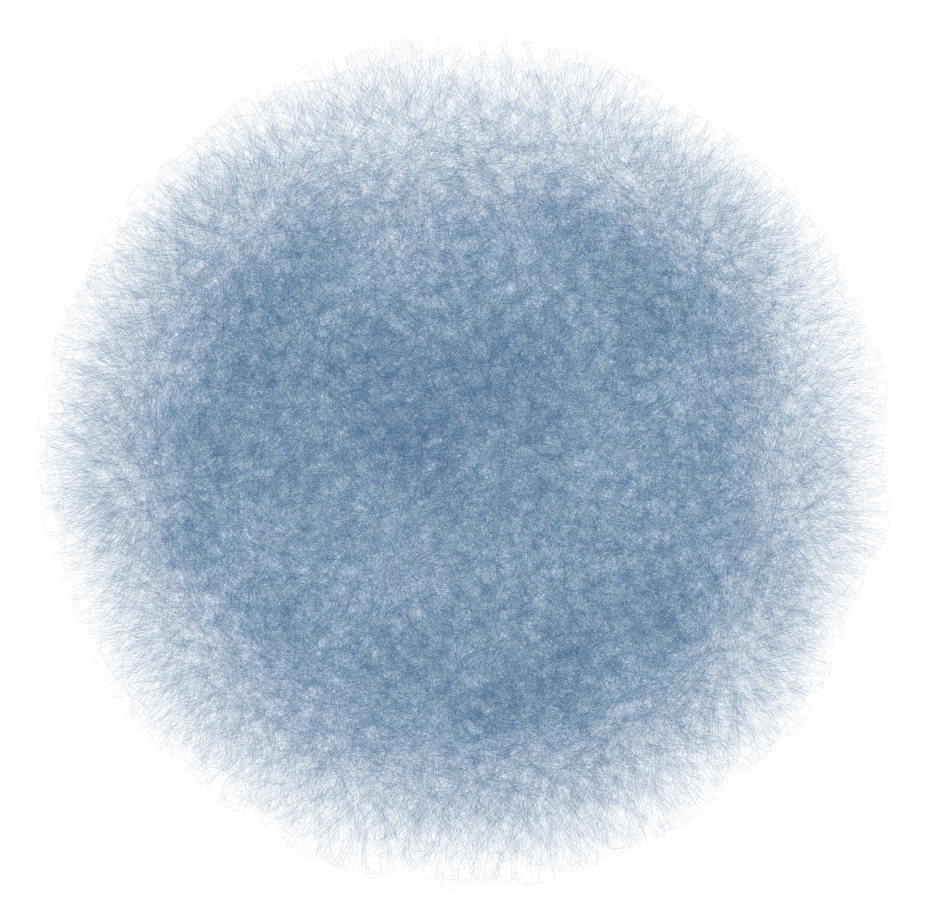
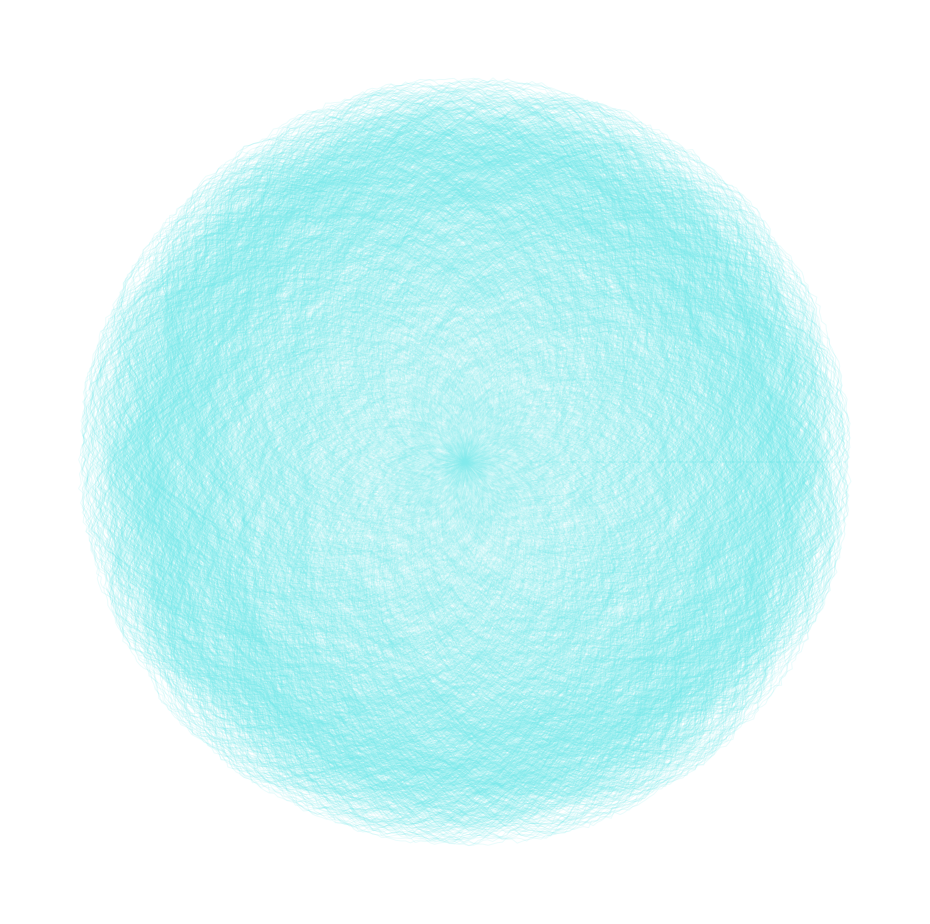
update background and edu section

diff --git a/index.html b/index.html
@@ -192,19 +192,46 @@
       </div>
       
       <h2>Education</h2>
-      <div>
-        <fieldset class="majorpoints">
-          <legend class="majorpointslegend"> &#9658; Expand </legend>
-          <div class="hiders" style="display:none;"> 
-            <ul>
-              <li>
-                <h3><i>Bachelor of Engineering</i></h3>
-                <p>Computer Science</p>
-              </li>
-            </ul>
-          </div>
-        </fieldset>
-      </div>
+        <div>
+          <fieldset class="majorpoints">
+            <legend class="majorpointslegend"> &#9658; Expand </legend>
+            <div class="hiders" style="display:none;">
+              <ul>
+                <li style="margin-bottom:18px;">
+                  <div style="display:flex; align-items:center; gap:14px; margin-bottom:10px;">
+                    <img src="media/ms_university_logo.png" alt="MS University Logo"
+                        style="height:50px; width:auto; border-radius:6px; border:1px solid #ccc;"
+                        onerror="this.style.display='none'">
+                    <div>
+                      <h3 style="margin:0;"><i>Master of Science</i></h3>
+                      <p style="margin:3px 0; color:#111; font-size:0.9em;">Your Field · e.g. Data Science</p>
+                      <p style="margin:3px 0; color:#111; font-size:0.9em;">University Name · City, Country</p>
+                      <p style="margin:3px 0; color:#111; font-size:0.85em; font-family:monospace;">20XX – 20XX</p>
+                    </div>
+                  </div>
+                  <p style="margin:4px 0; font-size:0.9em; color:#111;"><b>Grade:</b> 1.X / 5 <span style="font-size:0.85em;">(German scale · 1 = best)</span></p>
+                </li>
+
+                <hr style="border:none; border-top:1px solid #bbb; margin:4px 0 18px;">
+
+                <li>
+                  <div style="display:flex; align-items:center; gap:14px; margin-bottom:10px;">
+                    <img src="media/be_university_logo.png" alt="BE University Logo"
+                        style="height:50px; width:auto; border-radius:6px; border:1px solid #ccc;"
+                        onerror="this.style.display='none'">
+                    <div>
+                      <h3 style="margin:0;"><i>Bachelor of Engineering</i></h3>
+                      <p style="margin:3px 0; color:#111; font-size:0.9em;">Computer Science</p>
+                      <p style="margin:3px 0; color:#111; font-size:0.9em;">University Name · City, India</p>
+                      <p style="margin:3px 0; color:#111; font-size:0.85em; font-family:monospace;">20XX – 20XX</p>
+                    </div>
+                  </div>
+                  <p style="margin:4px 0; font-size:0.9em; color:#111;"><b>CGPA:</b> X.X / 10 <span style="font-size:0.85em;">(10 = best)</span></p>
+                </li>
+              </ul>
+            </div>
+          </fieldset>
+        </div>
 
     </div>
   </div>

diff --git a/style.css b/style.css
@@ -17,22 +17,28 @@ body {
   line-height: 1.6;
   margin: 0;
   background-color: var(--bg-color);
-  color: #0d1117;  
+  color: var(--text-main);
   letter-spacing: 0.01em; 
   word-spacing: 0.05em;
 }
 
-/* --- Animated Background Container --- */
+/* Container for the background animation */
 .animated-bg-container {
-  position: absolute; /* Anchors it to the top so it scrolls away */
-  top: -250px;        /* Pulls the center of the globe upwards */
-  left: 5%;           /* Aligns it behind the profile photo */
-  width: 1400px; 
-  height: 1400px;
-  z-index: 0;         /* Keeps it behind the main content */
-  pointer-events: none; /* Allows clicks to pass through to links/text */
+  z-index: 0;
+  position: absolute;
+  width: 100%;
   overflow: hidden;
-  border-radius: 50%; 
+  height: 1000px;
+  
+  /* Modern scaling instead of zoom */
+  transform: scale(1.25);
+  transform-origin: top left;
+  
+  top: 5%;
+  left: 5%;
+  
+  /* Safety net for clickable links */
+  pointer-events: none; 
 }
 
 /* Base styling for the crossfading images */
@@ -40,8 +46,8 @@ body {
   position: absolute;
   top: 0;
   left: 0;
-  width: 100%;
-  height: 100%;
+  width: 1000px;
+  height: auto;
   object-fit: cover;
   transition: opacity 4s ease-in-out; /* Handles the smooth crossfade */
 }
@@ -60,19 +66,14 @@ body {
   opacity: 0 !important; 
 }
 
-canvas {
-  display: block;
-  position: fixed;
-  top: 0;
-  left: 0;
-  z-index: 1; 
-}
 
 /* --- Structural Containers --- */
 .container {
   width: 100%;
   height: 1250px;
   position: absolute;
+  top: 0;
+  left: 0;
   z-index: 10;
 }
 
@@ -96,7 +97,7 @@ h1 {
   font-size: 2.2em; 
   font-weight: 700; 
   margin-bottom: 0.1em; 
-  color: #0d1117; 
+  color: var(--text-main); 
   letter-spacing: -0.02em; 
   line-height: 1.2;
 }

diff --git a/bg_generator.py b/bg_generator.py
@@ -7,40 +7,47 @@ os.makedirs(output_dir, exist_ok=True)
 
 print(f"Generating frames in: {output_dir}...")
 
-
-def make_scribble_circle(seed: int, line_count=120, points_per_line=360):
+def make_circular_globe(seed: int, line_count=2000):
     rng = np.random.default_rng(seed)
-    angles = np.linspace(0, 2 * np.pi, points_per_line)
+    
+    x_lines, y_lines, alphas = [], [], []
 
-    x_lines = []
-    y_lines = []
+    for i in range(line_count):
+        # FIX 1: Remove the hard minimum gap. Let lines generate naturally down to the center.
+        base_radius = 0.85 * (rng.random() ** 0.8)
+        
+        ratio = base_radius / 0.85
+        alpha_val = 0.04 + (0.1 * ratio)
 
-    for _ in range(line_count):
-        base_radius = np.sqrt(rng.random()) * 0.80
-        base_angle = rng.random() * 2 * np.pi
-        center_x = base_radius * np.cos(base_angle)
-        center_y = base_radius * np.sin(base_angle)
-
-        jitter = rng.normal(scale=0.04, size=points_per_line)
-        wobble = 0.12 + 0.08 * np.sin(12 * angles + rng.random() * 3.0)
-        radius = np.clip(0.08 + wobble + jitter, 0, 0.22)
-
-        offset = rng.random() * 2 * np.pi
-        x_line = center_x + radius * np.cos(angles + offset)
-        y_line = center_y + radius * np.sin(angles + offset)
-
-        x_lines.append(x_line)
-        y_lines.append(y_line)
-
-    return x_lines, y_lines
-
+        angles = np.linspace(0, 2 * np.pi, 500)
+        waves = rng.integers(3, 15)
+        phase = rng.random() * 2 * np.pi
+        
+        # By hardcoding a minimum wobble of `0.03`, lines near the center will sweep 
+        # *across* the origin rather than shrinking into a tiny dense dot. 
+        # This completely fills the hole with a soft, uniform texture.
+        wobble = (0.03 + base_radius * 0.04) * np.sin(waves * angles + phase)
+        jitter = rng.normal(scale=0.003, size=500)
+        
+        r_path = base_radius + wobble + jitter
+        
+        # Close the loop
+        r_path[-1] = r_path[0] 
+        
+        x_lines.append(r_path * np.cos(angles))
+        y_lines.append(r_path * np.sin(angles))
+        alphas.append(alpha_val)
+        
+    return x_lines, y_lines, alphas
 
 for i in range(30, 40):
-    x_lines, y_lines = make_scribble_circle(i, line_count=2000, points_per_line=320)
+    x_lines, y_lines, alphas = make_circular_globe(i, line_count=2000)
 
     plt.figure(figsize=(8, 8))
-    for x_line, y_line in zip(x_lines, y_lines):
-        plt.plot(x_line, y_line, color="#144473", alpha=0.06, linewidth=0.35)
+    
+    for x_line, y_line, alpha_val in zip(x_lines, y_lines, alphas):
+        plt.plot(x_line, y_line, color="#6CE6E8", alpha=alpha_val, linewidth=0.5)
+        
     plt.axis('off')
     plt.xlim(-1.1, 1.1)
     plt.ylim(-1.1, 1.1)
